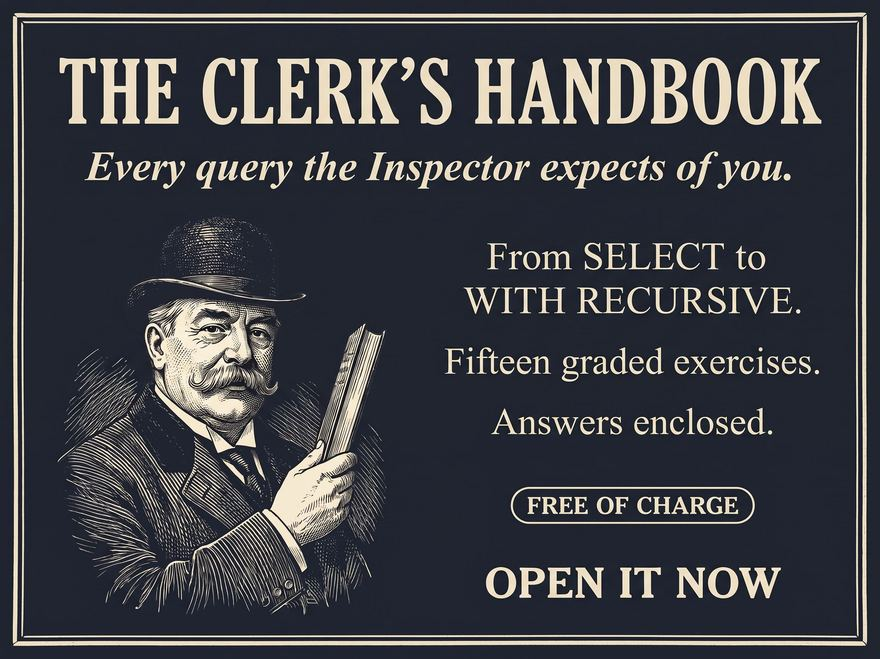
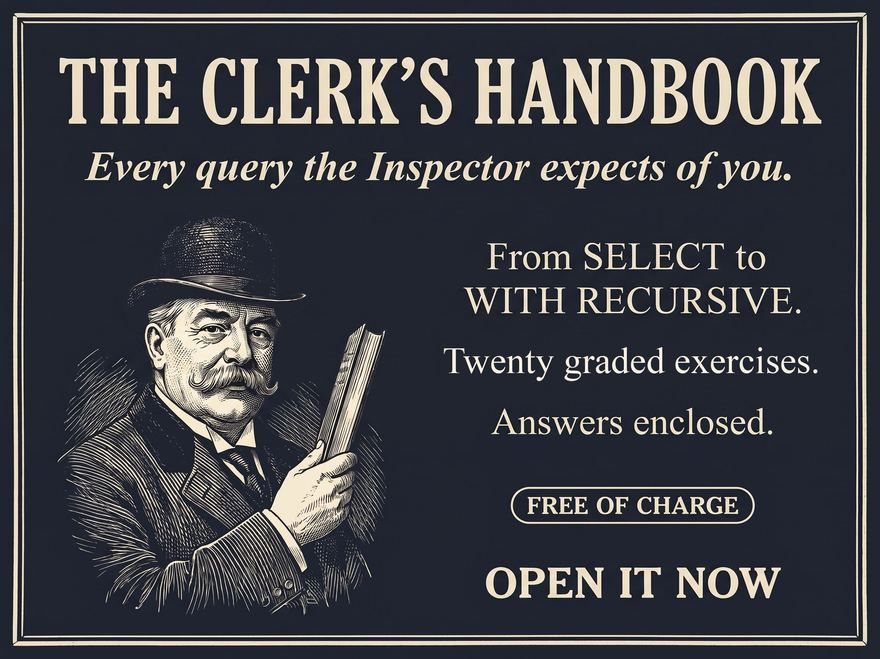
Handbook ad: Twenty graded exercises (line repainted in both prints, same typeface); index card and docs say twenty
Claude-Session: https://claude.ai/code/session_01QmDdNcxHhYnQzxn2Wdycgi

Changed region(s): [[0.4909, 0.5159, 0.9205, 0.5766]]

diff --git a/site/index.html b/site/index.html
@@ -93,7 +93,7 @@
     <details id="press-box" class="press-box" open>
       <summary class="label">ADVERTISEMENTS</summary>
       <div class="press-slot">
-        <a class="press-notice" href="learn/" target="_blank" rel="noopener"><img class="day" src="handbook-ad.jpg" width="880" height="659" loading="lazy" alt="The Clerk's Handbook: every query the Inspector expects of you. From SELECT to WITH RECURSIVE. Fifteen graded exercises, answers enclosed. Free of charge. Open it now."><img class="night" src="handbook-ad-night.jpg" width="880" height="659" loading="lazy" alt=""></a>
+        <a class="press-notice" href="learn/" target="_blank" rel="noopener"><img class="day" src="handbook-ad.jpg" width="880" height="659" loading="lazy" alt="The Clerk's Handbook: every query the Inspector expects of you. From SELECT to WITH RECURSIVE. Twenty graded exercises, answers enclosed. Free of charge. Open it now."><img class="night" src="handbook-ad-night.jpg" width="880" height="659" loading="lazy" alt=""></a>
       </div>
     </details>
   </aside>

diff --git a/site/learn/exercises.html b/site/learn/exercises.html
@@ -170,7 +170,7 @@
     <details id="press-box" class="press-box" open>
       <summary class="label">ADVERTISEMENTS</summary>
       <div class="press-slot">
-        <a class="press-notice" href="./"><img class="day" src="../handbook-ad.jpg" width="880" height="659" loading="lazy" alt="The Clerk's Handbook: every query the Inspector expects of you. From SELECT to WITH RECURSIVE. Fifteen graded exercises, answers enclosed. Free of charge. Open it now."><img class="night" src="../handbook-ad-night.jpg" width="880" height="659" loading="lazy" alt=""></a>
+        <a class="press-notice" href="./"><img class="day" src="../handbook-ad.jpg" width="880" height="659" loading="lazy" alt="The Clerk's Handbook: every query the Inspector expects of you. From SELECT to WITH RECURSIVE. Twenty graded exercises, answers enclosed. Free of charge. Open it now."><img class="night" src="../handbook-ad-night.jpg" width="880" height="659" loading="lazy" alt=""></a>
       </div>
     </details>
   </div>

diff --git a/site/learn/index.html b/site/learn/index.html
@@ -46,7 +46,7 @@
 <div class="toc-groups">
 <h2 class="toc-head">Exercises</h2>
 <p class="muted toc-what">Practise: write the queries yourself, in the page.</p>
-<a class="toc-card" href="exercises.html"><b>SQL exercises with solutions</b><span>Fifteen graded questions in three levels, from a first filter to a recursive chain: run your query in the page's terminal and it is checked against the question. Solutions stay hidden until you open them.</span></a>
+<a class="toc-card" href="exercises.html"><b>SQL exercises with solutions</b><span>Twenty graded questions in three levels, from a first filter to a recursive chain: run your query in the page's terminal and it is checked against the question. Solutions stay hidden until you open them.</span></a>
 <h2 class="toc-head">Grammar</h2>
 <p class="muted toc-what">Reference: the rules the game's terminal follows, each linked to the chapter that explains it.</p>
 <ul class="toc">

diff --git a/CLAUDE.md b/CLAUDE.md
@@ -92,7 +92,7 @@ Chapter 7 needs its CASE: Lupin wired "at the desk's quietest", the one of Ganim
 
 ## Site (`site/app.js`, `site/style.css`, `index.html`)
 
-- Handbook (`site/learn/`, "The Clerk's Handbook", live since 2026-10-10): static, crawlable reference pages (a short index, `database.html` describing the example database, one page per construct the chapters practise, pages on dates and times, NULL, subqueries and set operations, `exercises.html` (fifteen graded exercises in difficulty order, each with a slug `id` that the construct pages' closing "Try it" line links, each solution and its real result in a closed `<details class="solution">`, each question ending with its expected row count: rerun it after editing; interactive since 2026-10-19, see below), and `grammar.html`, "The Grammar of SQL", last, a short hub since 2026-10-19 (owner): its intro, `#order-of-execution` (which other pages link), one line per rule linking to its section, and `#sqlite-only` ("Other shorthands", the functions no chapter page fits). Each rule's section lives on its construct's page, with its anchor id unique site-wide and its wrong examples: `group-by`, `having`, `order-by-grouped`, `group-concat` on group-by-having.html; `distinct-order`, `limit-offset` on order-by-limit.html; `double-quotes` (backticks, `AS 'text'`), `double-equals`, `types` (`||` on numbers), `aliases`, `boolean` on select-where.html; `like-ilike` (GLOB, REGEXP, instr, COLLATE NOCASE) on like.html; `coalesce` (IFNULL, `IS <value>`) on nulls.html; `date-functions` (strftime and friends, LEFT/RIGHT, `::`) on dates-times.html; `iif` (IIF, scalar MAX/MIN) on case-when.html; headed "Grammar: ...". The rules are presented simply as how SQL is written, never as a special strict mode or against a forgiving SQLite (owner, 2026-10-16)) written for AdSense review and for students. The index carries one decorative vignette under the byline (`learn/handbook-book.webp`, a painted book, pen and inkwell from OpenGen, `alt=""`, transparent background, owner 2026-10-19). Every example runs on one invented bakery database (`customer`, `product`, `orders`, `order_item`; its SQLite script is on `learn/database.html`), never the game's tables, cast, places or values. `bakery.py` (stdlib, seeded) holds it: v1 (the week the pages use) and v2 (four weeks of March 2026 with `staff`, `refund`, `orders.staff_id`, `order_item.unit_price`, `customer.email` and the planted cases of `docs/superpowers/plans/2026-10-19-bakery-v2-and-review.md`, Part 2, which `bakery.check` asserts and the build fails without); `python3 generate_db.py` writes `bakery.LIVE`'s script (plain, between `<!-- bakery script: bakery.py -->` markers, never coloured) and its counts sentence into `database.html`, never by hand. After editing an example, `python3 bakery.py --paste <page>.html` reruns every example of that page and rewrites its result table from the real result (every example of more than one row carries an `ORDER BY` that fixes its order, ties included). A test (`test_generate.HandbookResults`) reruns every example and exercise solution on any learn page with the terminal's semantics and compares the pasted table cell for cell, again with reversed scans; a multi-row example needs an ORDER BY, an example shows at most 12 rows, and the block count (107) is pinned: bump it when adding an example. Code blocks are coloured at build time by `node colour_learn.mjs` (the game's `highlightSql`, spans written into the pages): run it after editing any example, a test fails on a plain block. Every example must pass the strict terminal (`strictCheck` on the bakery schema, a test checks); a `<pre class="wrong">` block on any learn page must be refused, and `colour_learn.mjs` writes the terminal's refusal under it (`.refusal`), so never edit those by hand. LIKE is case-sensitive in the game: an example that relies on case folding uses ILIKE. The pages promise the examples run in SQLite, never in PostgreSQL (`ROUND(x, 2)` on the REAL prices fails there; plain SQLite needs `lower(...) LIKE` for ILIKE). Scripts: `exercises.html` runs `exercises.js`; every other page runs only `learn/theme.js`, the Day/Night edition button (the game's `#btn-theme` markup, first in the body, the same on every handbook page, `admin.html` and `leaderboard.html`; a test checks it and that its icons are `themeButtonHtml`'s). It is a classic script in `<head>` without defer, so a stored choice is on `<html>` as `data-mood` before the first paint (no flash), and it shares the game's `ritz.theme` key (one choice site-wide). With no choice the night palette (with the `--sql-*` colours and the ad's night print) follows `prefers-color-scheme` in `learn/learn.css` (same values as `data-mood="night"`, guarded by `:root:not([data-mood="day"])` so a day choice wins); a night choice takes style.css's `:root[data-mood="night"]`. `theme.js` imports nothing and is not versioned by the deploy (like `../style.css` here). `privacy.html` (style.css only, no night palette) has no button. `database.html` and `exercises.html` show the bakery schema, drawn by `erd.py` (same look as the game's; `customer.referred_by`, a self-reference, is a loop beside its table) and inlined by `python3 generate_db.py` between `<!-- bakery schema: erd.py -->` and `<!-- /bakery schema -->`: never edit it by hand, a unittest fails when it is stale. `exercises.html` stays complete without JavaScript (every question, row count and closed solution is static, crawlable and checked as above); `learn/exercises.js` (a module importing `../app.js`; `app.js` boots the game only where `#landing` exists) unhides `#workbench` above the questions: schema left, terminal centre (sql.js from cdnjs, the bakery database built from `database.html`'s script fetched `+ VERSION`, `terminalDb`'s query_only and LIKE settings, `cartesian`, `strictCheck` on its schema with `strictHtml(r, "")`, `highlightSql` overlay, Ctrl+Enter, Ctrl+F, `renderResults`' row cap), question right (stacked question, terminal, schema under 900 px). Every run is checked against every question's solution, run in the browser (`sameResult`: same row count and values as a multiset, numbers within 1e-6 and `'07'` = 7, column names and order ignored, extra columns allowed; `data-ordered` on a question that asks for an order (1, 2, 5, 7) compares rows in order; `data-need="i,j"` names the solution columns a question actually asks for (the others are extras like an id); `data-tolerance` for a number the question does not ask to round (10)); a match ticks the question in the picker (`ritz.exercises`, try/catch) and shows a green "Solved" beside the QUESTION label (`#ex-solved`, `--ok` in `learn.css`, night override). Above the picker, Warm-up / Practice / Challenge buttons (the level headings, `aria-pressed`) filter it and pick the level's first unsolved question (`startLevel`, `levelPick`, pure, tested; no level is remembered). Under the terminal a closed HISTORY, as in the game (`pushHistory`, `btnLike`; a query that errors or is refused is never kept), in `ritz.exercises.history`. Under the schema, the game's ad box (`#press-box`, the house ad's images `../handbook-ad*.jpg` linking `./`, app.js's exported `initAds`; its night print follows `prefers-color-scheme` in `learn.css`); no other handbook page carries an ad. "How to use this page" is a closed `<details class="howto">`. Once the workbench is up the script hides the static questions (`#ex-static`, still in the HTML for no-JS readers and crawlers; shown again if sql.js fails), so `#<slug>` (the Try it links) finds no visible target: the script selects that question, scrolls to the workbench, and again on `load` and once the database is ready unless the reader has scrolled or pressed a key; choosing one rewrites the hash. `test_site.mjs` runs every solution through Python's sqlite3 with the terminal's semantics and checks each marks itself solved and no other question, that row order counts only on `data-ordered` ones, and that every "Try it" slug exists: after adding or editing an exercise, set its `data-*` and rerun it. No clues: the Shortcut check applies, and "In the game" lines name chapter numbers and titles only; a page never names a chapter whose Hint does not show that construct (the UNION page names XII, not XI, whose Hint shows only LAG: naming XI would say it stacks ledgers). The pages link `../style.css` without `?v=` (the deploy's cache-busting sed only rewrites index.html, privacy.html, admin.html, leaderboard.html and learn/exercises.html). Every page repeats the same chrome by hand (no templating): the masthead nav ("Game . The Clerk's Handbook . The Clerk's Desk", owner 2026-10-19), the footer ("Game . The Clerk's Handbook . Privacy notice . The Clerk's Desk . AlephB . Contact"; `admin.html` carries the same two, `privacy.html` and `leaderboard.html` have their own), the menu row under the rule ("Index . Learning chapters . Exercises . Grammar"; Learning chapters is a native `<details class="learn-chapters">` dropdown, no script, listing the fourteen construct pages numbered 1 to 14 in table of contents order; the current page is a `.current` `aria-current` span, and on a construct page the summary is `.current` too and reads "Learning chapters: 5. LIKE"), a `.game-label` line under the title naming the game chapters the page serves by numeral (titles and numerals only, each a link to `../`), and a previous/next pager in reading order; adding or reordering a page means editing the menu and pagers on every page. `site/sitemap.xml` (with `robots.txt`) lists the landing page, privacy.html and every learn page: add any new page there. `test_site.mjs` pins all of this: identical nav, footer and menu (only the `.current` markers differ), every in-handbook `#anchor` link resolving, pagers in table of contents order with labels naming the target's `<h1>`, the sitemap, and no game table or cast name on any page (chapter titles excepted).
+- Handbook (`site/learn/`, "The Clerk's Handbook", live since 2026-10-10): static, crawlable reference pages (a short index, `database.html` describing the example database, one page per construct the chapters practise, pages on dates and times, NULL, subqueries and set operations, `exercises.html` (twenty graded exercises in difficulty order, each with a slug `id` that the construct pages' closing "Try it" line links, each solution and its real result in a closed `<details class="solution">`, each question ending with its expected row count: rerun it after editing; interactive since 2026-10-19, see below), and `grammar.html`, "The Grammar of SQL", last, a short hub since 2026-10-19 (owner): its intro, `#order-of-execution` (which other pages link), one line per rule linking to its section, and `#sqlite-only` ("Other shorthands", the functions no chapter page fits). Each rule's section lives on its construct's page, with its anchor id unique site-wide and its wrong examples: `group-by`, `having`, `order-by-grouped`, `group-concat` on group-by-having.html; `distinct-order`, `limit-offset` on order-by-limit.html; `double-quotes` (backticks, `AS 'text'`), `double-equals`, `types` (`||` on numbers), `aliases`, `boolean` on select-where.html; `like-ilike` (GLOB, REGEXP, instr, COLLATE NOCASE) on like.html; `coalesce` (IFNULL, `IS <value>`) on nulls.html; `date-functions` (strftime and friends, LEFT/RIGHT, `::`) on dates-times.html; `iif` (IIF, scalar MAX/MIN) on case-when.html; headed "Grammar: ...". The rules are presented simply as how SQL is written, never as a special strict mode or against a forgiving SQLite (owner, 2026-10-16)) written for AdSense review and for students. The index carries one decorative vignette under the byline (`learn/handbook-book.webp`, a painted book, pen and inkwell from OpenGen, `alt=""`, transparent background, owner 2026-10-19). Every example runs on one invented bakery database (`customer`, `product`, `orders`, `order_item`; its SQLite script is on `learn/database.html`), never the game's tables, cast, places or values. `bakery.py` (stdlib, seeded) holds it: v1 (the week the pages use) and v2 (four weeks of March 2026 with `staff`, `refund`, `orders.staff_id`, `order_item.unit_price`, `customer.email` and the planted cases of `docs/superpowers/plans/2026-10-19-bakery-v2-and-review.md`, Part 2, which `bakery.check` asserts and the build fails without); `python3 generate_db.py` writes `bakery.LIVE`'s script (plain, between `<!-- bakery script: bakery.py -->` markers, never coloured) and its counts sentence into `database.html`, never by hand. After editing an example, `python3 bakery.py --paste <page>.html` reruns every example of that page and rewrites its result table from the real result (every example of more than one row carries an `ORDER BY` that fixes its order, ties included). A test (`test_generate.HandbookResults`) reruns every example and exercise solution on any learn page with the terminal's semantics and compares the pasted table cell for cell, again with reversed scans; a multi-row example needs an ORDER BY, an example shows at most 12 rows, and the block count (107) is pinned: bump it when adding an example. Code blocks are coloured at build time by `node colour_learn.mjs` (the game's `highlightSql`, spans written into the pages): run it after editing any example, a test fails on a plain block. Every example must pass the strict terminal (`strictCheck` on the bakery schema, a test checks); a `<pre class="wrong">` block on any learn page must be refused, and `colour_learn.mjs` writes the terminal's refusal under it (`.refusal`), so never edit those by hand. LIKE is case-sensitive in the game: an example that relies on case folding uses ILIKE. The pages promise the examples run in SQLite, never in PostgreSQL (`ROUND(x, 2)` on the REAL prices fails there; plain SQLite needs `lower(...) LIKE` for ILIKE). Scripts: `exercises.html` runs `exercises.js`; every other page runs only `learn/theme.js`, the Day/Night edition button (the game's `#btn-theme` markup, first in the body, the same on every handbook page, `admin.html` and `leaderboard.html`; a test checks it and that its icons are `themeButtonHtml`'s). It is a classic script in `<head>` without defer, so a stored choice is on `<html>` as `data-mood` before the first paint (no flash), and it shares the game's `ritz.theme` key (one choice site-wide). With no choice the night palette (with the `--sql-*` colours and the ad's night print) follows `prefers-color-scheme` in `learn/learn.css` (same values as `data-mood="night"`, guarded by `:root:not([data-mood="day"])` so a day choice wins); a night choice takes style.css's `:root[data-mood="night"]`. `theme.js` imports nothing and is not versioned by the deploy (like `../style.css` here). `privacy.html` (style.css only, no night palette) has no button. `database.html` and `exercises.html` show the bakery schema, drawn by `erd.py` (same look as the game's; `customer.referred_by`, a self-reference, is a loop beside its table) and inlined by `python3 generate_db.py` between `<!-- bakery schema: erd.py -->` and `<!-- /bakery schema -->`: never edit it by hand, a unittest fails when it is stale. `exercises.html` stays complete without JavaScript (every question, row count and closed solution is static, crawlable and checked as above); `learn/exercises.js` (a module importing `../app.js`; `app.js` boots the game only where `#landing` exists) unhides `#workbench` above the questions: schema left, terminal centre (sql.js from cdnjs, the bakery database built from `database.html`'s script fetched `+ VERSION`, `terminalDb`'s query_only and LIKE settings, `cartesian`, `strictCheck` on its schema with `strictHtml(r, "")`, `highlightSql` overlay, Ctrl+Enter, Ctrl+F, `renderResults`' row cap), question right (stacked question, terminal, schema under 900 px). Every run is checked against every question's solution, run in the browser (`sameResult`: same row count and values as a multiset, numbers within 1e-6 and `'07'` = 7, column names and order ignored, extra columns allowed; `data-ordered` on a question that asks for an order (1, 2, 5, 7) compares rows in order; `data-need="i,j"` names the solution columns a question actually asks for (the others are extras like an id); `data-tolerance` for a number the question does not ask to round (10)); a match ticks the question in the picker (`ritz.exercises`, try/catch) and shows a green "Solved" beside the QUESTION label (`#ex-solved`, `--ok` in `learn.css`, night override). Above the picker, Warm-up / Practice / Challenge buttons (the level headings, `aria-pressed`) filter it and pick the level's first unsolved question (`startLevel`, `levelPick`, pure, tested; no level is remembered). Under the terminal a closed HISTORY, as in the game (`pushHistory`, `btnLike`; a query that errors or is refused is never kept), in `ritz.exercises.history`. Under the schema, the game's ad box (`#press-box`, the house ad's images `../handbook-ad*.jpg` linking `./`, app.js's exported `initAds`; its night print follows `prefers-color-scheme` in `learn.css`); no other handbook page carries an ad. "How to use this page" is a closed `<details class="howto">`. Once the workbench is up the script hides the static questions (`#ex-static`, still in the HTML for no-JS readers and crawlers; shown again if sql.js fails), so `#<slug>` (the Try it links) finds no visible target: the script selects that question, scrolls to the workbench, and again on `load` and once the database is ready unless the reader has scrolled or pressed a key; choosing one rewrites the hash. `test_site.mjs` runs every solution through Python's sqlite3 with the terminal's semantics and checks each marks itself solved and no other question, that row order counts only on `data-ordered` ones, and that every "Try it" slug exists: after adding or editing an exercise, set its `data-*` and rerun it. No clues: the Shortcut check applies, and "In the game" lines name chapter numbers and titles only; a page never names a chapter whose Hint does not show that construct (the UNION page names XII, not XI, whose Hint shows only LAG: naming XI would say it stacks ledgers). The pages link `../style.css` without `?v=` (the deploy's cache-busting sed only rewrites index.html, privacy.html, admin.html, leaderboard.html and learn/exercises.html). Every page repeats the same chrome by hand (no templating): the masthead nav ("Game . The Clerk's Handbook . The Clerk's Desk", owner 2026-10-19), the footer ("Game . The Clerk's Handbook . Privacy notice . The Clerk's Desk . AlephB . Contact"; `admin.html` carries the same two, `privacy.html` and `leaderboard.html` have their own), the menu row under the rule ("Index . Learning chapters . Exercises . Grammar"; Learning chapters is a native `<details class="learn-chapters">` dropdown, no script, listing the fourteen construct pages numbered 1 to 14 in table of contents order; the current page is a `.current` `aria-current` span, and on a construct page the summary is `.current` too and reads "Learning chapters: 5. LIKE"), a `.game-label` line under the title naming the game chapters the page serves by numeral (titles and numerals only, each a link to `../`), and a previous/next pager in reading order; adding or reordering a page means editing the menu and pagers on every page. `site/sitemap.xml` (with `robots.txt`) lists the landing page, privacy.html and every learn page: add any new page there. `test_site.mjs` pins all of this: identical nav, footer and menu (only the `.current` markers differ), every in-handbook `#anchor` link resolving, pagers in table of contents order with labels naming the target's `<h1>`, the sitemap, and no game table or cast name on any page (chapter titles excepted).
 - Admin page and board (spec sections 5 and 6): `site/admin.html` + `admin.js` + `admin.css` ("THE CLERK'S DESK") and `site/leaderboard.html` + `leaderboard.js`, static, in the handbook's chrome (they link `style.css` and `learn/learn.css`, so the night palette follows `prefers-color-scheme`). Both modules export their pure parts (CSV, student link, seasons table, detail, board renderers; tested in `test_site.mjs`) and wire the DOM only when `document` exists; every backend value goes through `escapeHtml` (`shared.js`). The admin page takes the board URL from `?board=` or `localStorage` `ritz.admin.board`, then asks the passphrase in `#passgate` (a native `<dialog>`, asked again while wrong, kept in memory only and sent as `key`); it reads `?seasons=1` and every row (`doGet` with no parameter) for the table's counts, polls the selected season's `?meta` and `?season` every 10 s until it is closed, posts `admin` create/open/close, builds the student link `<game dir>/?season=<id>&board=<url>` (QR via `qr.js`), opens the board and exports the season's rows as CSV in the browser. The board (`leaderboard.html?data=<url>&season=<id>`, public, projector-sized) polls `?meta` and `?season` every 10 s (it stops once closed): created, the joined list; open, the ranking (`officialTime`) with the eight-cell strip; closed, a podium over the ranking. Neither page is in `sitemap.xml`; `robots.txt` disallows `/admin.html` and both carry `noindex`.
 
 ### Look
